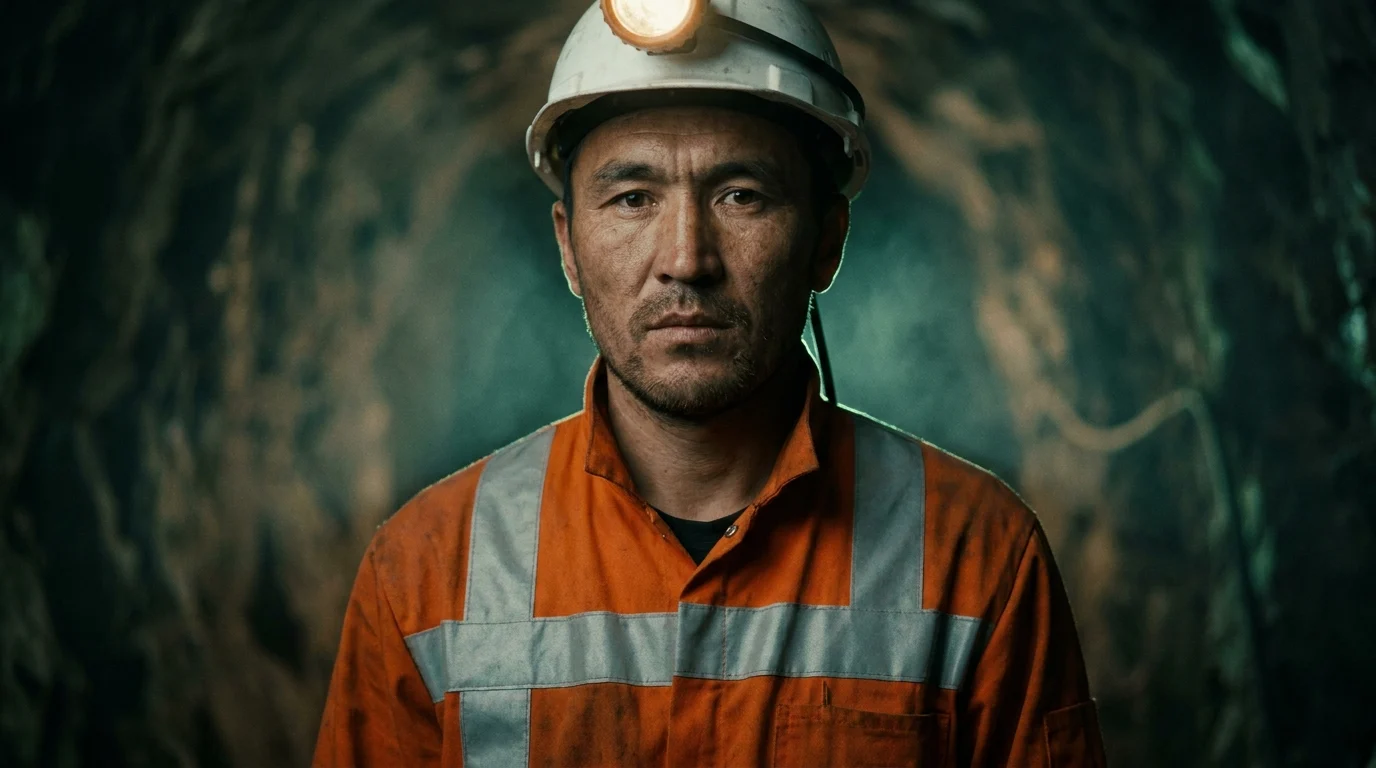
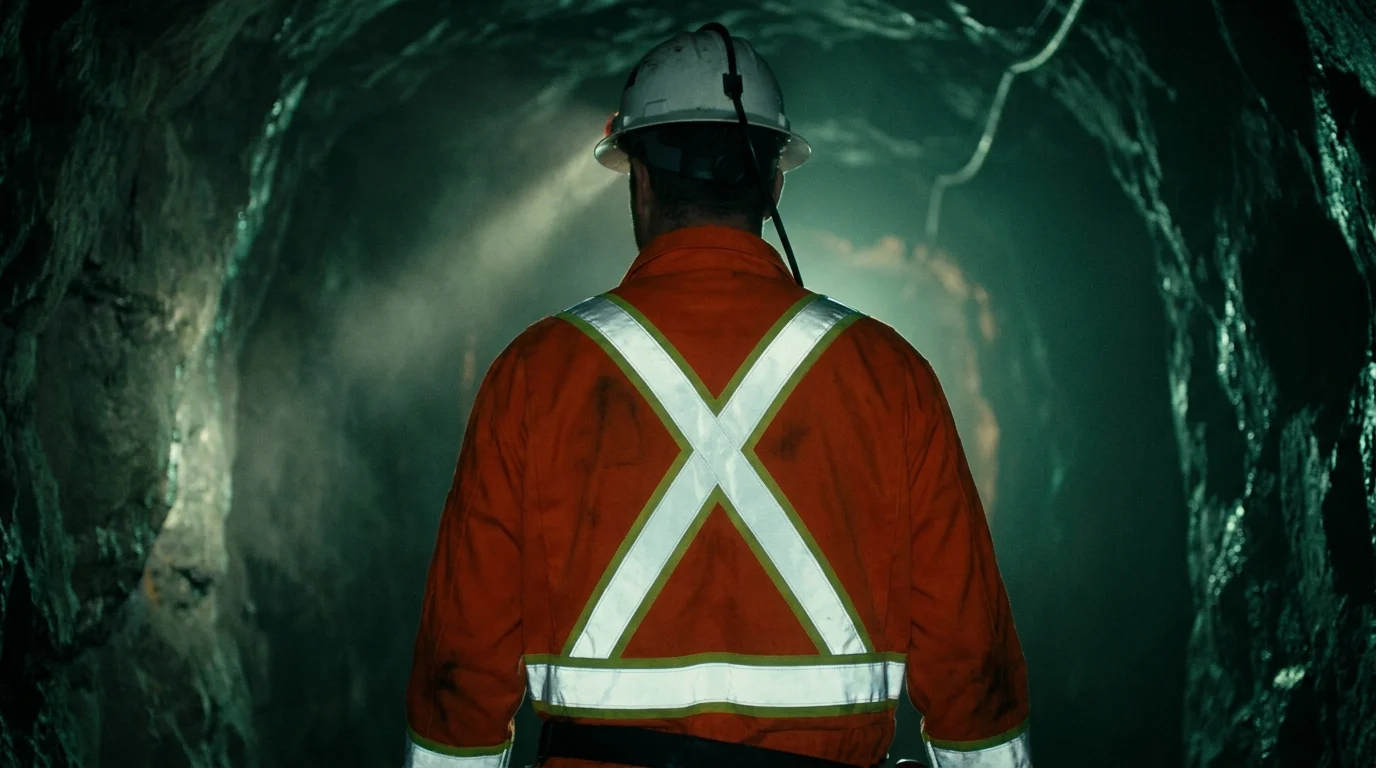
Alltrade: новый герой (уверенный шахтёр), фото пошива по РЕАЛЬНОМУ макету клиента, клиенты +Казахмыс, мобильный хиро, сквозная нумерация 01-05
- Первый экран: новое фото - сильный уверенный шахтёр (был грустный/уставший)
- Пошив: фото по реальному макету «Шахтёр-2» - светоотражающий X-крест на спине (клиент прислал макеты; кресты именно на спине)
- Клиенты: строка «Нам доверяют» - Казахмыс · Аэропорт Сарыарка · Павлодарэнерго
- Мобильный хиро: рабочий на весь экран (лицо сверху), текст внизу на затемнении - не налезает
- Логика нумерации: список «Пять направлений» и детальные секции теперь сквозные 01-05 в одном порядке (оборудование = 01, приоритет клиента)

diff --git a/index.html b/index.html
@@ -960,32 +960,24 @@
     padding-inline:calc(max(var(--pad), 50vw - 720px + var(--pad)) - var(--inset));
   }
   @media (max-width:560px){
-    /* Мобильный хиро: рабочий в нижнем-правом углу, текст сверху с воздухом */
+    /* Мобильный хиро: рабочий на весь экран (лицо сверху), текст внизу на затемнении */
     .hero2-card{display:none}
-    .hero2{min-height:clamp(580px,158vw,780px);padding-top:clamp(60px,16vw,96px);padding-bottom:44px}
-    .hero2-copy{display:flex;flex-direction:column;flex:1}
-    .hero2-stats{gap:8px 16px;margin-bottom:14px}
-    .hero2-title{margin-top:0}
-    .hero2-desc{
-      margin-top:auto;max-width:none;
-      background:rgba(14,17,16,.55);border:1px solid rgba(255,255,255,.14);
-      border-radius:var(--r-l);padding:16px 18px;
-      -webkit-backdrop-filter:blur(14px);backdrop-filter:blur(14px);
-    }
-    .hero2-cta{margin-top:16px}
+    .hero2-bgtex{display:none}
+    .hero2{min-height:92svh;padding-top:0;padding-bottom:clamp(28px,7vw,44px);justify-content:flex-end}
     .hero2-char{
-      top:auto;bottom:0;
-      height:min(50%,400px);right:-9vw;
-      -webkit-mask-image:linear-gradient(90deg,transparent 0,#000 30%,#000 100%),linear-gradient(180deg,transparent 0,#000 10%,#000 88%,transparent 100%);
-      mask-image:linear-gradient(90deg,transparent 0,#000 30%,#000 100%),linear-gradient(180deg,transparent 0,#000 10%,#000 88%,transparent 100%);
-      -webkit-mask-composite:source-in;
-      mask-composite:intersect;
+      position:absolute;inset:0;top:0;bottom:0;right:0;margin:0;
+      width:100%;height:100%;object-fit:cover;object-position:58% 6%;aspect-ratio:auto;
+      -webkit-mask-image:none;mask-image:none;
     }
     .hero2::after{
       content:"";position:absolute;inset:0;z-index:3;pointer-events:none;
-      background:linear-gradient(90deg,rgba(8,10,9,.62) 0%,rgba(8,10,9,.28) 50%,rgba(8,10,9,0) 76%);
+      background:linear-gradient(180deg,rgba(8,10,9,.5) 0%,rgba(8,10,9,0) 22%,rgba(8,10,9,.5) 52%,#0A0C0B 90%);
     }
-    .hero2-copy{position:relative;z-index:4}
+    .hero2-copy{position:relative;z-index:4;display:flex;flex-direction:column}
+    .hero2-stats{gap:8px 16px;margin-bottom:12px}
+    .hero2-title{margin:0 0 12px}
+    .hero2-desc{max-width:none}
+    .hero2-cta{margin-top:16px}
   }
   @media (max-width:760px){
     .hero2,#vending,#equipment{margin-inline:calc(var(--pad) * -1);padding-inline:var(--pad);border-radius:0}
@@ -1197,23 +1189,23 @@
     <div class="dirs">
       <div class="dir">
         <span class="num">01</span>
-        <div class="dir-t"><b>Поставка СИЗ</b><p>Сертифицированные СИЗ со склада: дыхание, голова, руки, ноги, глаза, слух.</p></div>
+        <div class="dir-t"><b>Оборудование для спасателей</b><p>Газоанализаторы, шахтные фонари, регистраторы и&nbsp;зарядно-учётные станции.</p></div>
       </div>
       <div class="dir">
         <span class="num">02</span>
-        <div class="dir-t"><b>Пошив спецодежды</b><p>Индивидуальный пошив под климат, отрасль и&nbsp;логотип заказчика.</p></div>
+        <div class="dir-t"><b>Поставка СИЗ</b><p>Сертифицированные СИЗ со склада: дыхание, голова, руки, ноги, глаза, слух.</p></div>
       </div>
       <div class="dir">
         <span class="num">03</span>
-        <div class="dir-t"><b>Вендинг-выдача</b><p>Автоматы KazProService: выдача 24/7 по&nbsp;бейджу с поимённым учётом.</p></div>
+        <div class="dir-t"><b>Пошив спецодежды</b><p>Индивидуальный пошив под климат, отрасль и&nbsp;логотип заказчика.</p></div>
       </div>
       <div class="dir">
         <span class="num">04</span>
-        <div class="dir-t"><b>Обслуживание</b><p>Стирка, ремонт, мойка и дезинфекция масок&nbsp;- форма всегда в строю.</p></div>
+        <div class="dir-t"><b>Вендинг-выдача</b><p>Автоматы KazProService: выдача 24/7 по&nbsp;бейджу с поимённым учётом.</p></div>
       </div>
       <div class="dir">
         <span class="num">05</span>
-        <div class="dir-t"><b>Оборудование для спасателей</b><p>Газоанализаторы, шахтные фонари, регистраторы и&nbsp;зарядно-учётные станции.</p></div>
+        <div class="dir-t"><b>Обслуживание</b><p>Стирка, ремонт, мойка и дезинфекция масок&nbsp;- форма всегда в строю.</p></div>
       </div>
     </div>
   </section>
@@ -1222,7 +1214,7 @@
   <section id="equipment" aria-label="Оборудование для спасателей и мониторинга">
     <div class="sec-head">
       <div>
-        <p class="svc-kicker">Промышленная безопасность</p>
+        <p class="svc-kicker">01 · Оборудование для спасателей</p>
         <h2 class="display">Оборудование<br>для спасателей</h2>
       </div>
       <div class="sec-side">
@@ -1262,7 +1254,7 @@
   <section id="products" aria-label="Продукция">
     <div class="sec-head">
       <div>
-        <p class="svc-kicker">Поставка СИЗ</p>
+        <p class="svc-kicker">02 · Поставка СИЗ</p>
         <h2 class="display">Каталог СИЗ</h2>
       </div>
       <div class="sec-side">
@@ -1331,7 +1323,7 @@
   <section id="services" aria-label="Наша галерея">
     <div class="sec-head">
       <div>
-        <p class="svc-kicker">Пошив спецодежды</p>
+        <p class="svc-kicker">03 · Пошив спецодежды</p>
         <h2 class="display">Спецодежда<br>под предприятие</h2>
       </div>
       <div class="sec-side">
@@ -1360,7 +1352,7 @@
   <section id="vending" aria-label="Вендинг-выдача СИЗ">
     <div class="sec-head">
       <div>
-        <p class="svc-kicker">Вендинг-выдача</p>
+        <p class="svc-kicker">04 · Вендинг-выдача</p>
         <h2 class="display">Автоматическая<br>выдача 24/7</h2>
       </div>
       <div class="sec-side">
@@ -1435,7 +1427,7 @@
   <section id="wash" aria-label="Мойка и обслуживание масок">
     <div class="sec-head">
       <div>
-        <p class="svc-kicker">Обслуживание СИЗ</p>
+        <p class="svc-kicker">05 · Обслуживание СИЗ</p>
         <h2 class="display">Многоразовое<br>вместо одноразового</h2>
       </div>
       <div class="sec-side">
@@ -1520,8 +1512,8 @@
     </div>
 
     <div class="clients-line">
-      <span class="clients-line-k mono">Наши клиенты</span>
-      <span class="clients-line-v">Аэропорт Сарыарка&nbsp;· Павлодарэнерго</span>
+      <span class="clients-line-k mono">Нам доверяют</span>
+      <span class="clients-line-v">Казахмыс&nbsp;· Аэропорт Сарыарка&nbsp;· Павлодарэнерго</span>
     </div>
   </section>
 
